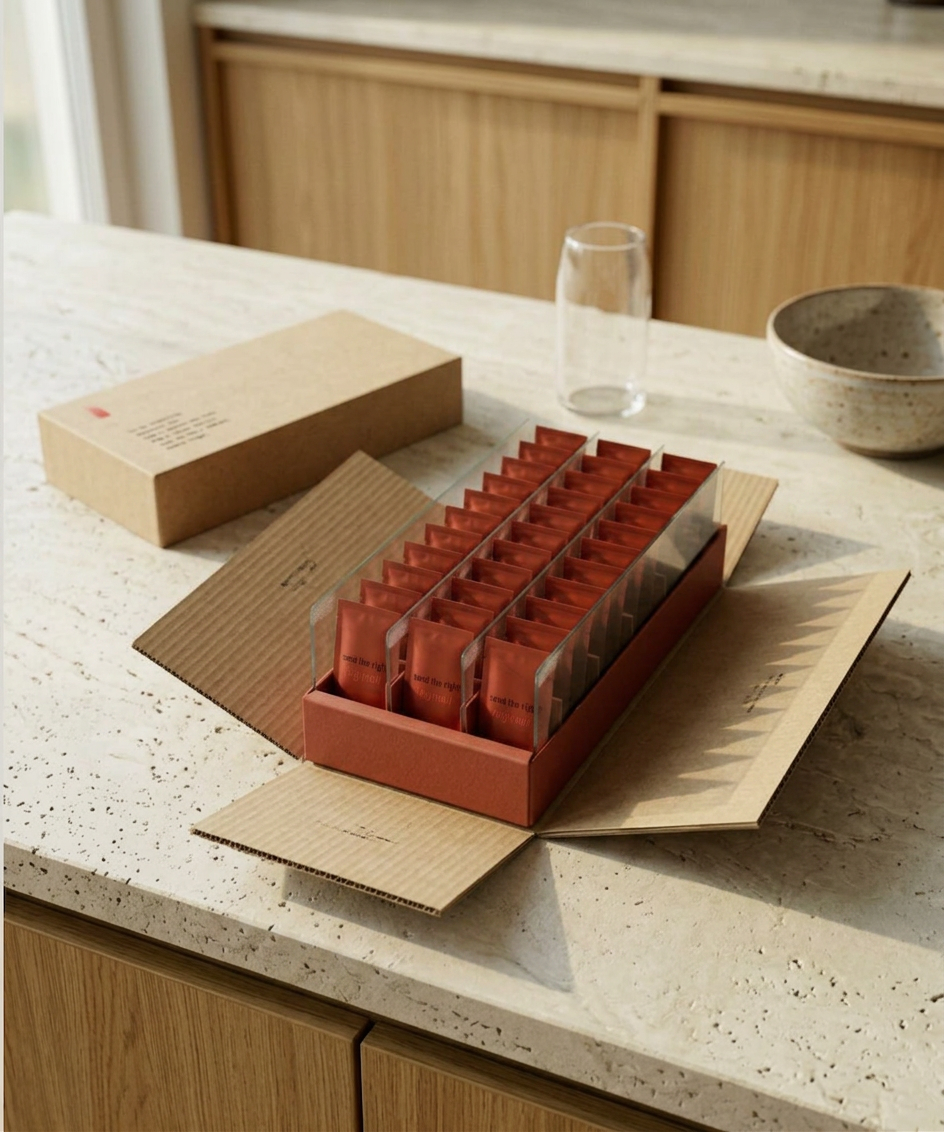
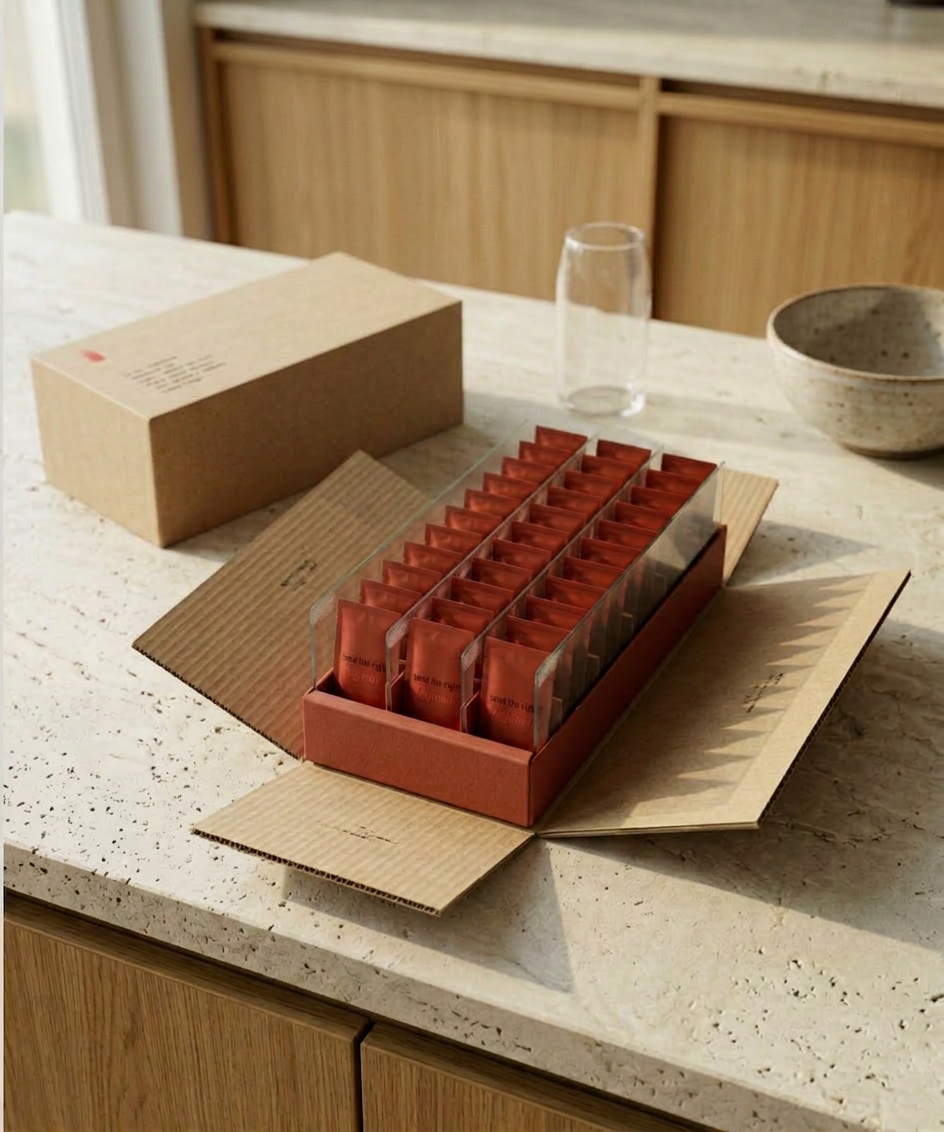
Deploy: Signal Codex v1.5 — petal-fold render with height-corrected lid
Lid height now matches tray height — proportionally accurate
depiction of the friction-fit two-piece mechanic.

Changed region(s): [[0.0307, 0.2164, 0.4915, 0.4329], [0.4301, 0.3401, 0.7066, 0.4638], [0.5837, 0.2164, 0.6144, 0.2783]]

diff --git a/signal-codex.html b/signal-codex.html
@@ -641,7 +641,7 @@ body.locked > section, body.locked > footer { display: none !important; }
   </div>
   <div class="cover-thesis">For the people building the world.</div>
   <div class="cover-subline">A decoding document. The thesis, the voice, the manifesto, the product architecture, the operational discipline, the customer ritual, the defense — held in one cover.</div>
-  <div class="cover-meta">signal codex · v1.4 · chapters 00–09 · 2026-05-23</div>
+  <div class="cover-meta">signal codex · v1.5 · chapters 00–09 · 2026-05-23</div>
 </section>
 
 <!-- ═══════════════════ TOC ═══════════════════ -->
@@ -1448,7 +1448,7 @@ body.locked > section, body.locked > footer { display: none !important; }
 <!-- ═══════════════════ FOOTER ═══════════════════ -->
 <footer>
   <div class="footer-line">INSDR Wellness — the cellcare company</div>
-  <div>the signal codex · v1.4 · chapters 00–09 · internal · 2026</div>
+  <div>the signal codex · v1.5 · chapters 00–09 · internal · 2026</div>
 </footer>
 
 <script>